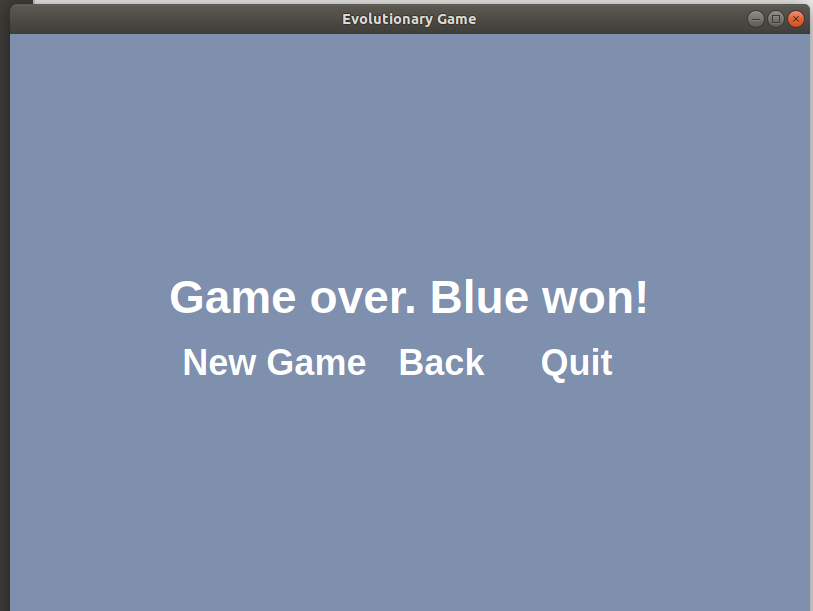
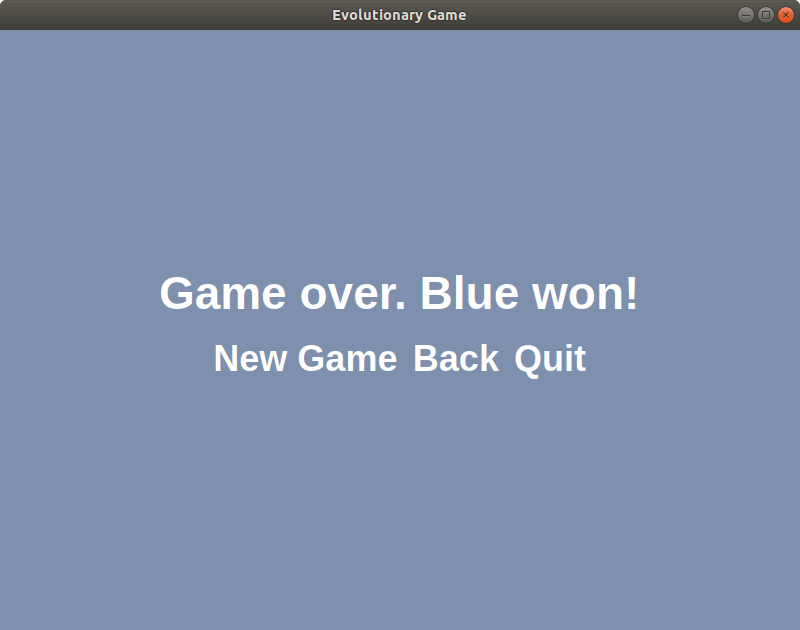
fixed resize bug, updated readme

Changed region(s): [[0.0, 0.0, 1.0, 1.0], [0.1875, 0.4354, 0.8125, 0.6219]]

diff --git a/gui/main_window.py b/gui/main_window.py
@@ -1,4 +1,4 @@
-from PyQt5.QtWidgets import QMainWindow, QFrame, QAction, QWidget, QHBoxLayout, QVBoxLayout, QCheckBox, QPushButton, QFileDialog, QComboBox, QLabel, QDialog
+from PyQt5.QtWidgets import QMainWindow, QFrame, QAction, QWidget, QHBoxLayout, QVBoxLayout, QCheckBox, QPushButton, QFileDialog, QComboBox, QLabel, QDialog, QStackedWidget
 from PyQt5.QtGui import QIcon
 from PyQt5.QtCore import Qt
 from .game_frame import GameFrame
@@ -62,7 +62,19 @@ class App(QMainWindow):
                          self.resolution[1])
 
         self.init_main_frame()
+        self.init_options()
+        self.init_pregame()
+        self.init_gameover_frame()
 
+        self.stackedWidget = QStackedWidget()        
+        self.stackedWidget.addWidget(self.main_frame)
+        self.stackedWidget.addWidget(self.opt_frame)
+        self.stackedWidget.addWidget(self.pregame_frame)
+        self.stackedWidget.addWidget(self.gameover_frame)
+        self.stackedWidget.setCurrentWidget(self.main_frame)
+        
+        self.setCentralWidget(self.stackedWidget)
+        
         # add top menu bar with items
         self.mainMenu = self.menuBar()
         self.gameMenu = self.mainMenu.addMenu('Game')
@@ -76,6 +88,7 @@ class App(QMainWindow):
 
         self.statusbar = self.statusBar()
 
+        self.statusbar.setVisible(False)
 
     def init_main_frame(self):
         """
@@ -144,8 +157,8 @@ class App(QMainWindow):
         if self.toggleDebug == True:
             self.checkBox.setChecked(True)
 
-        self.optVertLayout.addWidget(self.checkBox, 0, Qt.AlignCenter)
-        self.optVertLayout.addWidget(self.backButton, 0, Qt.AlignCenter)
+        self.optVertLayout.addWidget(self.checkBox)
+        self.optVertLayout.addWidget(self.backButton)
 
    
 
@@ -205,11 +218,11 @@ class App(QMainWindow):
         self.preHorizontalLayout.addWidget(self.preBackButton)
         self.preHorizontalLayout.addWidget(self.playButton)
 
-        self.preVertLayout.addWidget(self.selectorButton, 0, Qt.AlignCenter)
-        self.preVertLayout.addWidget(self.selector2Button, 0, Qt.AlignCenter)
-        self.preVertLayout.addWidget(self.modeText, 0, Qt.AlignCenter)
-        self.preVertLayout.addWidget(self.modeSelect, 0, Qt.AlignCenter)
-        self.preVertLayout.addWidget(self.preHorizontalLayoutW, 0, Qt.AlignCenter)
+        self.preVertLayout.addWidget(self.selectorButton)
+        self.preVertLayout.addWidget(self.selector2Button)
+        self.preVertLayout.addWidget(self.modeText)
+        self.preVertLayout.addWidget(self.modeSelect)
+        self.preVertLayout.addWidget(self.preHorizontalLayoutW)
 
         # only press play when a breeder is selected
         self.playButton.setEnabled(False)
@@ -233,9 +246,8 @@ class App(QMainWindow):
         self.overVertLayout.setAlignment(Qt.AlignCenter)
 
         self.gameOverText = QLabel(self.overVertLayoutW)
-        self.gameOverText.setText("Game over. " + winner + " won!")
         self.gameOverText.setStyleSheet("color: white; font-weight: bold; font-size: 46px; font-family: Helvetica, sans-serif;")
-
+        
         self.overHorizontalLayoutW = QWidget(self.gameover_frame)
 
         self.overHorizontalLayout = QHBoxLayout(self.overHorizontalLayoutW)
@@ -260,8 +272,8 @@ class App(QMainWindow):
         self.overHorizontalLayout.addWidget(self.backToMMButton)
         self.overHorizontalLayout.addWidget(self.quitGameButton)
 
-        self.overVertLayout.addWidget(self.gameOverText, 0, Qt.AlignCenter)
-        self.overVertLayout.addWidget(self.overHorizontalLayoutW, 0, Qt.AlignCenter)
+        self.overVertLayout.addWidget(self.gameOverText)
+        self.overVertLayout.addWidget(self.overHorizontalLayoutW)
 
 
     def play_game(self):
@@ -283,8 +295,8 @@ class App(QMainWindow):
             self.toggleMenu.setEnabled(False)
         
         self.game_frame = GameFrame(self, self.selectedMode, self.width(), self.height())
-        self.setCentralWidget(self.game_frame)
-
+        self.stackedWidget.addWidget(self.game_frame)
+        self.stackedWidget.setCurrentWidget(self.game_frame)
         # connect statusbar with messages from game_frame
         self.game_frame.msg2Statusbar[str].connect(self.statusbar.showMessage)
 
@@ -304,9 +316,14 @@ class App(QMainWindow):
         """
         Game is finished (this method is called from egame.py)
         """
-        self.init_gameover_frame(winner)
-        self.setCentralWidget(self.gameover_frame)
+        self.gameOverText.setText("Game over. " + winner + " won!")
+        self.stackedWidget.setCurrentWidget(self.gameover_frame)
+        #self.overVertLayoutW.resize(self.width(), self.height())
+        self.gameMenu.setEnabled(False)
+        self.optionMenu.setEnabled(False)
+        self.mainMenu.setVisible(False)
         self.statusbar.setVisible(False)
+        
         self.show()
 
 
@@ -314,8 +331,7 @@ class App(QMainWindow):
         """
         Play is pressed in the main menu
         """
-        self.init_pregame()
-        self.setCentralWidget(self.pregame_frame)
+        self.stackedWidget.setCurrentWidget(self.pregame_frame)
         self.show()
 
 
@@ -331,8 +347,8 @@ class App(QMainWindow):
         """
         Options is pressed in main menu
         """
-        self.init_options()
-        self.setCentralWidget(self.opt_frame)
+        self.stackedWidget.setCurrentWidget(self.opt_frame)
+        #self.optVertLayoutW.resize(self.width(), self.height())
         self.show()
 
 
@@ -362,7 +378,7 @@ class App(QMainWindow):
 
     def backToMenuButton(self):
         """
-        Game is stopped and main menu is shown
+        Game is stopped during a running game and main menu is shown
         """
         self.game_frame.stop_timer()
         self.backToMenu()
@@ -372,11 +388,10 @@ class App(QMainWindow):
         """
         reinitialize main menu screen
         """
-        self.init_main_frame()
         self.gameMenu.setEnabled(False)
         self.optionMenu.setEnabled(False)
-        self.setCentralWidget(self.main_frame)
-        self.verticalLayoutWidget.resize(self.width(), self.height())
+        self.stackedWidget.setCurrentWidget(self.main_frame)        
+        #self.mainVerticalLayoutWidget.resize(self.width(), self.height())
         self.show()
 
 
@@ -414,35 +429,19 @@ class App(QMainWindow):
             
     def resizeEvent(self, event):
         """
-        Window size has changed, resize frames accordingly 
-        BUG: It sometimes throws a Runtime Error because the garbage collector of PyQT has deleted a frame. It still works though.  
+        Window size has changed, resize frames accordingly  
         """   
-        try:    
-            if hasattr(self, 'main_frame') and self.main_frame is not None:
-                self.main_frame.resize(self.width(), self.height())
-                if hasattr(self, 'mainVerticalLayoutWidget') and self.mainVerticalLayoutWidget is not None:
-                    self.mainVerticalLayoutWidget.resize(self.width(), self.height())
-            
-            if hasattr(self, 'pregame_frame') and self.pregame_frame is not None:
-                self.pregame_frame.resize(self.width(), self.height())
-                if hasattr(self, 'preVertLayoutW') and self.preVertLayoutW is not None:
-                    self.preVertLayoutW.resize(self.width(), self.height())
+        self.main_frame.resize(self.width(), self.height())
+        self.mainVerticalLayoutWidget.resize(self.width(), self.height())
+        self.pregame_frame.resize(self.width(), self.height())
+        self.preVertLayoutW.resize(self.width(), self.height())  
+        self.opt_frame.resize(self.width(), self.height())
+        self.optVertLayoutW.resize(self.width(), self.height())
+        self.gameover_frame.resize(self.width(), self.height())
+        self.overVertLayoutW.resize(self.width(), self.height())
 
-            if hasattr(self, 'opt_frame') and self.opt_frame is not None:    
-                self.opt_frame.resize(self.width(), self.height())
-                if hasattr(self, 'optVertLayoutW') and self.optVertLayoutW is not None:
-                    self.optVertLayoutW.resize(self.width(), self.height())
-
-            if hasattr(self, 'game_frame') and self.game_frame is not None:        
-                self.game_frame.resize_frame(self.width(), self.height())
-            
-            if hasattr(self, 'gameover_frame') and self.gameover_frame is not None:
-                self.gameover_frame.resize(self.width(), self.height())
-                if hasattr(self, 'overVertLayoutW') and self.overVertLayoutW is not None:
-                    self.overVertLayoutW.resize(self.width(), self.height())
-        # not so nice workaround for the bug stated above 
-        except RuntimeError:
-            pass
+        if hasattr(self, 'game_frame') and self.game_frame is not None:        
+            self.game_frame.resize_frame(self.width(), self.height())
 
     
     def keyPressEvent(self, event):

diff --git a/README.md b/README.md
@@ -52,7 +52,7 @@ python3 main.py config.json
 ```
 # Start a new Game
 ![pregame](./documentation/pregame.png)<br>
-To start a new game, press *Play new game* and, in the next screen, select the two breeder classes that should play against each other by pressing the buttons. A file selector will appear. When both classes are selected, you can play.
+To start a new game, press *Play new game* in the main menu and, in the next screen, select the two breeder classes that should play against each other by pressing the buttons. A file selector will appear. When both classes are selected, you can play.
 
 # Game Elements
 ## Individuals of populations
